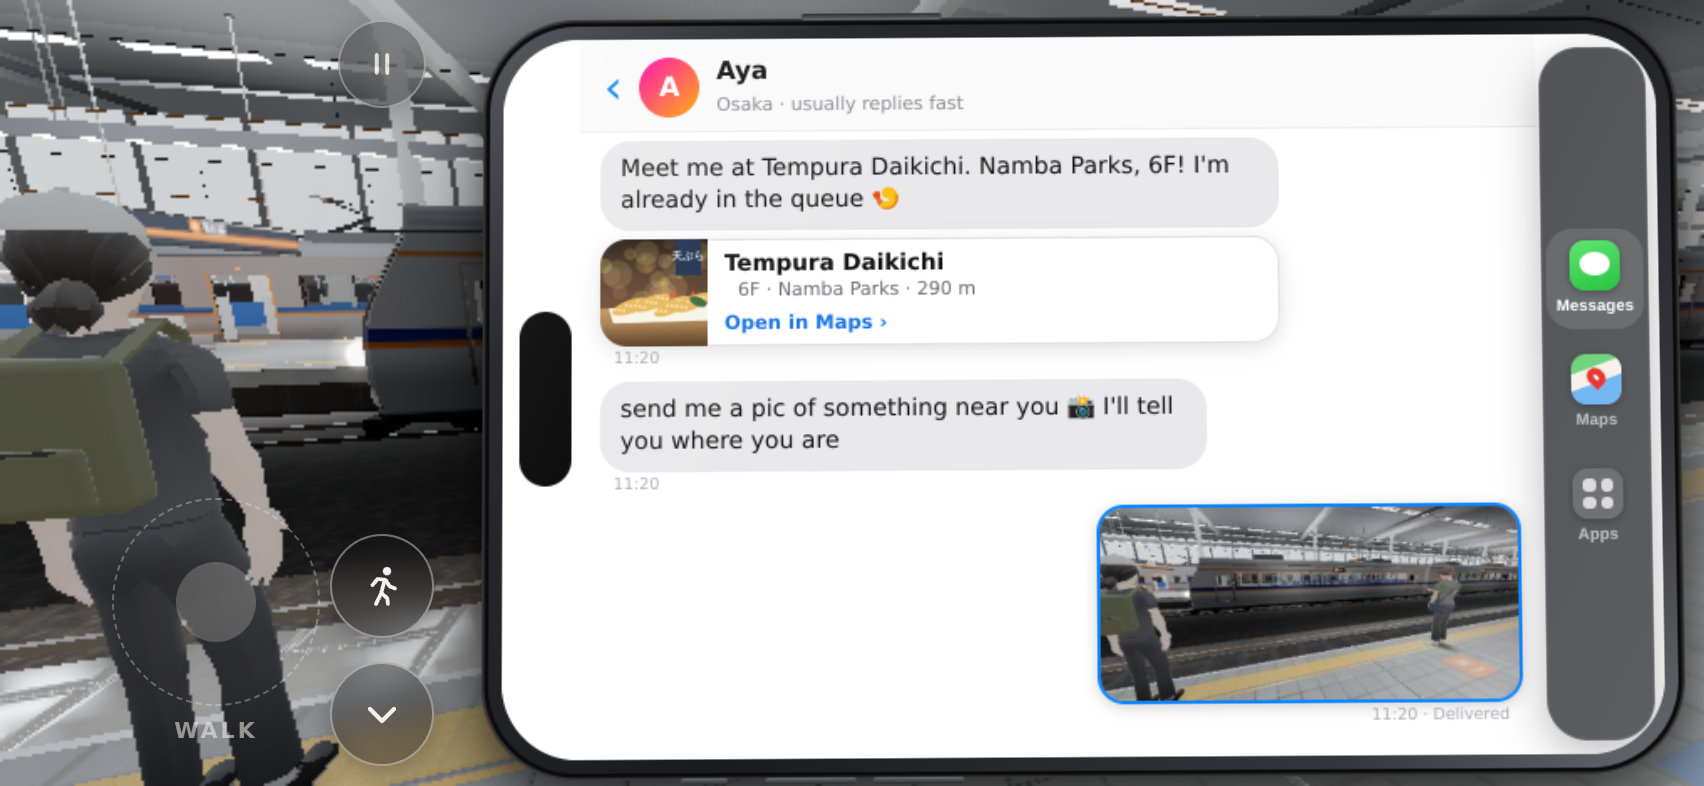
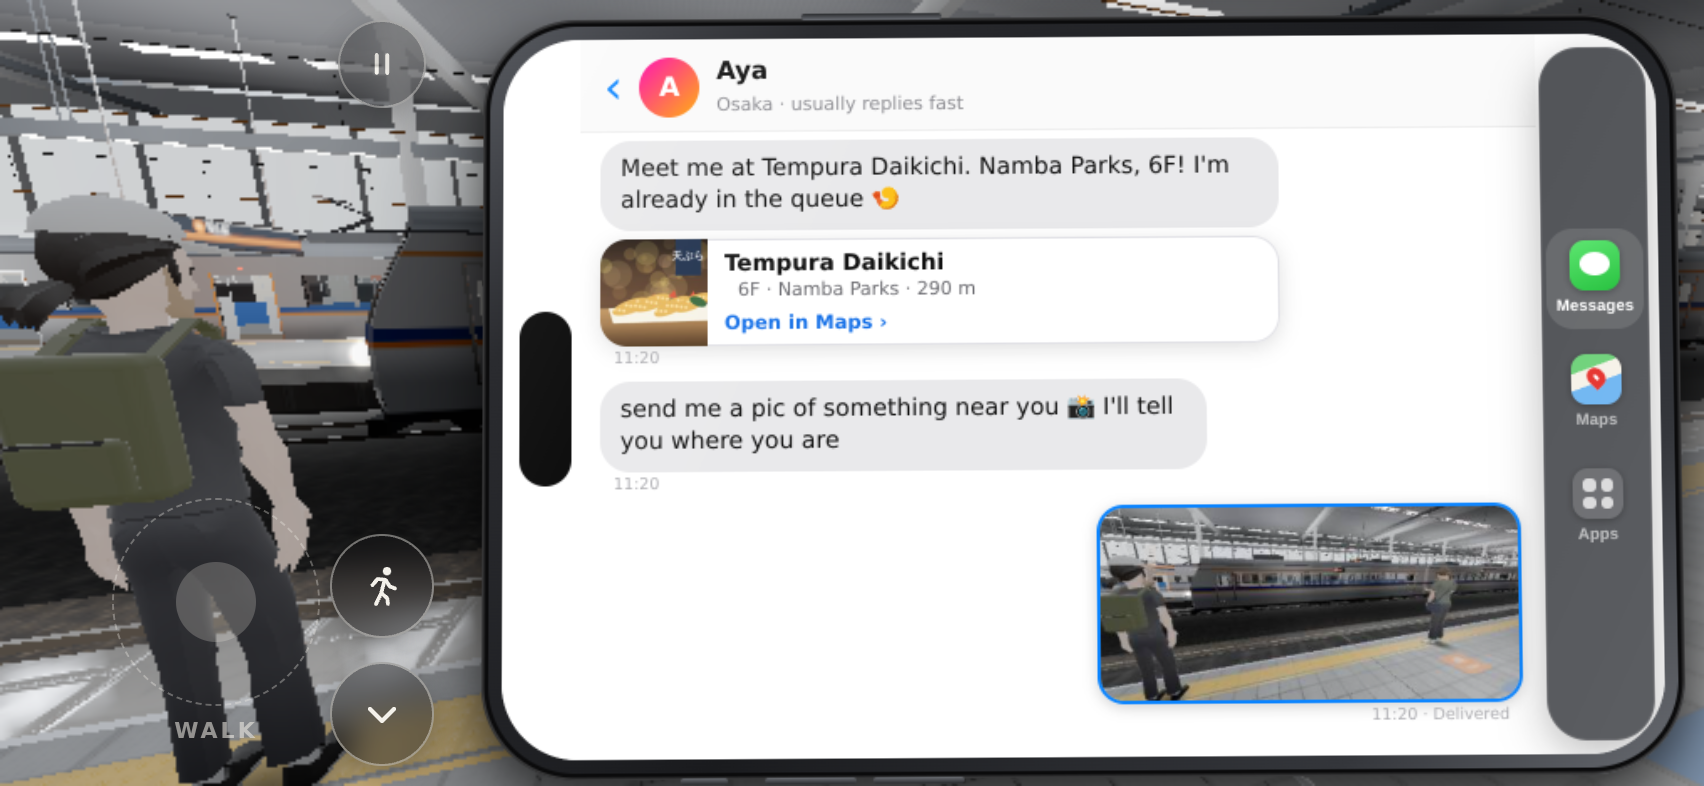
v12 critic: strip look under the wide phone, iPhone Safari detection independent of requestFullscreen, more in-app exclusions, v12-critique.md
Claude-Session: https://claude.ai/code/session_01DFPWmVZjWP3RarZo2JLFjj

diff --git a/namba-demo/notes/v12-critique.md b/namba-demo/notes/v12-critique.md
@@ -51,10 +51,10 @@ Shots: `notes/v12-shots/critic/`.
 | `critic12` (mine, scratch) iPhone UA, portrait load → landscape | wide race, strip look, photo by touch, glance, pause: `errors []`, `ctx.errors []` |
 | `critic12 title` iPhone Safari UA **with `requestFullscreen` present** at 852×270 | `ios-iphone ios-swipe ios-cue`, scrollHeight 430; real touch swipe → scrollY 129; resize to 393 → `ios-lock`; LinkedIn UA → `is-touch` only, no scroll |
 | `paprobe` final: `basic` (iOS) and `desktop` | both `errors []`, `ctx.errors []` (numbers in the scorecard) |
-| `memprobe` 852×393 @3 | MEMPROBE_RESULT |
-| `mouseshot` | MOUSESHOT_RESULT |
+| `memprobe` 852×393 @3 (final code) | canvas+GPU: title **280**, 30 s play **288**, phone up/Maps **293**, Lodestone 3D **304**, world tour 388 MB (v11.1: 280 / 294 / 298 / 309 / 384): **no regression**; the wide phone costs nothing measurable. `ctx.errors []` |
+| `mouseshot` (final code) | free chip, pause links `_blank`, backdrop click resumes (locked), phone chip, `errors []`: desktop unchanged |
 
-A headless note: one touchwalk shot (`09-offer`) caught the Dynamic Island mid-morph from the glance card into the
+A headless note: one touchwalk shot (`critic/headless-island-midmorph-artifact.png`) caught the Dynamic Island mid-morph from the glance card into the
 landscape pill, a big black blob over the thread. That is SwiftShader: a frame takes seconds, so a 0.42 s CSS
 transition gets photographed half-way. In every settled shot it's the correct 31×104 pill (`2b-wide-phone-raised-852.png`).
 Worth one look on a real phone, though: the morph sweeps across the panel.
@@ -64,9 +64,10 @@ Worth one look on a real phone, though: the morph sweeps across the panel.
 | File | Change | Why |
 |---|---|---|
 | `js/core/input.js` (`touchstart`) | While `html.ph-wide`, a touch in the **upper half** of the screen is a look touch even inside the stick zone (the lower half still spawns the stick) | The wide phone leaves a ~244 px strip that is entirely stick zone, so turning was impossible with the phone up: no aiming the 📸, no turning to read a sign |
+| `js/ui/touch.js` (`_build`) + `css/touch.css` | A faint **"⟷ LOOK" ghost** in the strip (the twin of the WALK ghost), shown only while `html.ph-wide`; it fades after the first strip look (`html.tu-wide-looked`, set in `input.js`) and is hidden under 300 px of height (bars showing) | Nobody would guess that the top of the strip turns the camera. `critic/2b-look-ghost-852.png` |
 | `js/ui/touch.js` (`iphoneSafari()`) | No longer bails out when `requestFullscreen`/`webkitRequestFullscreen` exists on an iPhone; +LINE, Snapchat, Threads to the in-app list | iPhone builds that expose the method still keep the bars (Zack's report after Begin). The old check would have silently disabled the whole swipe-up fix on his phone. Begin still calls `goFullscreen()`, harmless if it ever works. |
 
-Both edits are small and touch-only. Desktop is untouched (`walk.mjs` and `mouseshot`).
+All three edits are small and touch-only: desktop is untouched (`walk.mjs`, `mouseshot`). The final `touchwalk` and `memprobe` ran with the first two edits; the LOOK ghost was checked afterwards in `critic12` (2b row) only.
 
 ## 4. What remains (honest)
 
@@ -76,9 +77,8 @@ Both edits are small and touch-only. Desktop is untouched (`walk.mjs` and `mouse
   the PA. Nothing reports the bars. Ask him for one screenshot after swiping.
 - **"One click" is not achievable on iPhone Safari.** One swipe on the title, or Add to Home Screen (the Settings tip).
   Say so plainly rather than let him expect a click.
-- **Discoverability of the strip look:** nothing tells you that the top of the strip turns the camera while the
-  phone is up. The fallback is natural (walking lowers the phone in 1 s), but the photo retry ("send one with a sign
-  in it") is exactly when a player wants to aim. A faint "LOOK" ghost in the strip (twin of "WALK") would close it.
+- **The strip look is a new gesture that no real thumb has tried yet.** The split at half height is a guess, and the
+  LOOK ghost is the only cue. Watch Zack's first raise.
 - **The glance card's second line is about 9–10 CSS px** at 0.75 scale. Legible on a retina phone, but at the limit.
 - **After Lodestone, Aya is still a monologue**: 6 unanswerable one-liners in the normal walk (the v11 point, unchanged).
 - **Real-device fps** is still read only from PostHog `namba_perf`; this round added DOM and layout, not geometry.
@@ -91,7 +91,8 @@ Both edits are small and touch-only. Desktop is untouched (`walk.mjs` and `mouse
   is now as strong as on desktop.
 - **+ The PA has a real root cause and a self-reporting fix**: a chain of three faults with WebKit code evidence, a
   headless model of iOS's speech gate that shows old 0/5 → new 2/2, and `namba_pa` so his next play gives the answer.
-- **+ The touch controls Zack loved are untouched**, and the new look zone only exists while the wide phone is up.
+- **+ The touch controls Zack loved are untouched**: the new look zone (with its LOOK ghost) only exists while the
+  wide phone is up.
 - **+ Invariants held**: storysim 19/19, desktop walk 0 bad chips, 0 timers, 45.8 s max silence, `ctx.errors []`
   in every run.
 
@@ -103,8 +104,8 @@ Both edits are small and touch-only. Desktop is untouched (`walk.mjs` and `mouse
   the cue is a small text on a busy title (the JA line is low-contrast over the blue train).
 - **−0.25: after Lodestone, Aya talks at you**: 6 unanswerable texts in a row in the normal walk.
 - **−0.25: visuals unchanged since v9**: low-poly crowd, flat signage. The phone UI now outclasses the world it sits in.
-- **−0.25: small phone-only rough edges**: the strip look is invisible, the glance second line is about 9–10 px, and the
-  island morph sweeps over the panel for 0.4 s.
+- **−0.25: small phone-only rough edges**: the strip look is new and untested by a thumb, the glance second line is
+  about 9–10 px, and the island morph sweeps over the panel for 0.4 s.
 
 **To reach 9, ordered by impact per effort.**
 1. **Zack plays once on the iPhone, then read PostHog `namba_pa` + `namba_perf` (input=touch)**, and ask for one
@@ -112,10 +113,9 @@ Both edits are small and touch-only. Desktop is untouched (`walk.mjs` and `mouse
 2. **If `namba_pa` says `attempts > 0, unlocked false`**: speak the first real PA line itself inside the Begin
    gesture (a short platform chime line, not `。`), so the very utterance that needs the gesture is one you hear.
    *30 min.*
-3. **A "LOOK" ghost in the strip while `ph-wide`** (`touch.js` + `touch.css`, the twin of the WALK ghost). *20 min.*
-4. **Make 2 after-Lodestone texts answerable** ("is it working? 😌" → *it's magic 🤯* / *still lost 😭*; "send me a pic
+3. **Make 2 after-Lodestone texts answerable** ("is it working? 😌" → *it's magic 🤯* / *still lost 😭*; "send me a pic
    of the canyon 🌿" reusing the photo beat). *About an hour; it's the best conversation the demo doesn't have yet.*
-5. **Glance card on phones: bump the note line to ≥ 11 CSS px** (font, not scale). *15 min.*
+4. **Glance card on phones: bump the note line to ≥ 11 CSS px** (font, not scale). *15 min.*
 
 ## 6. Top 3 risks
 
